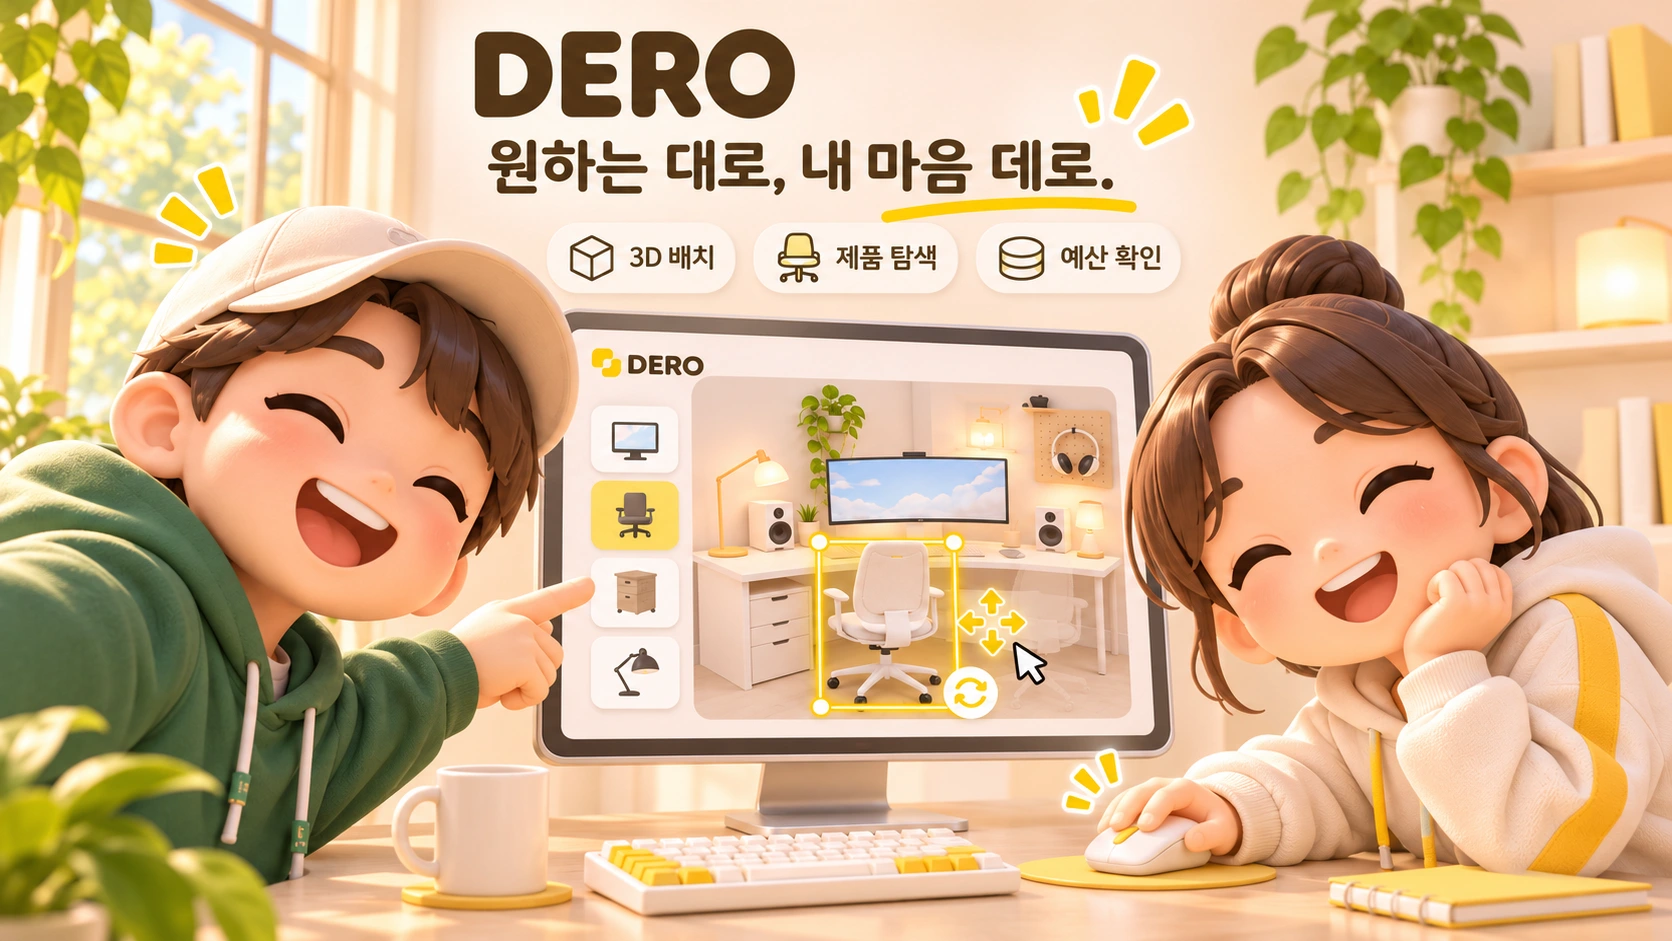
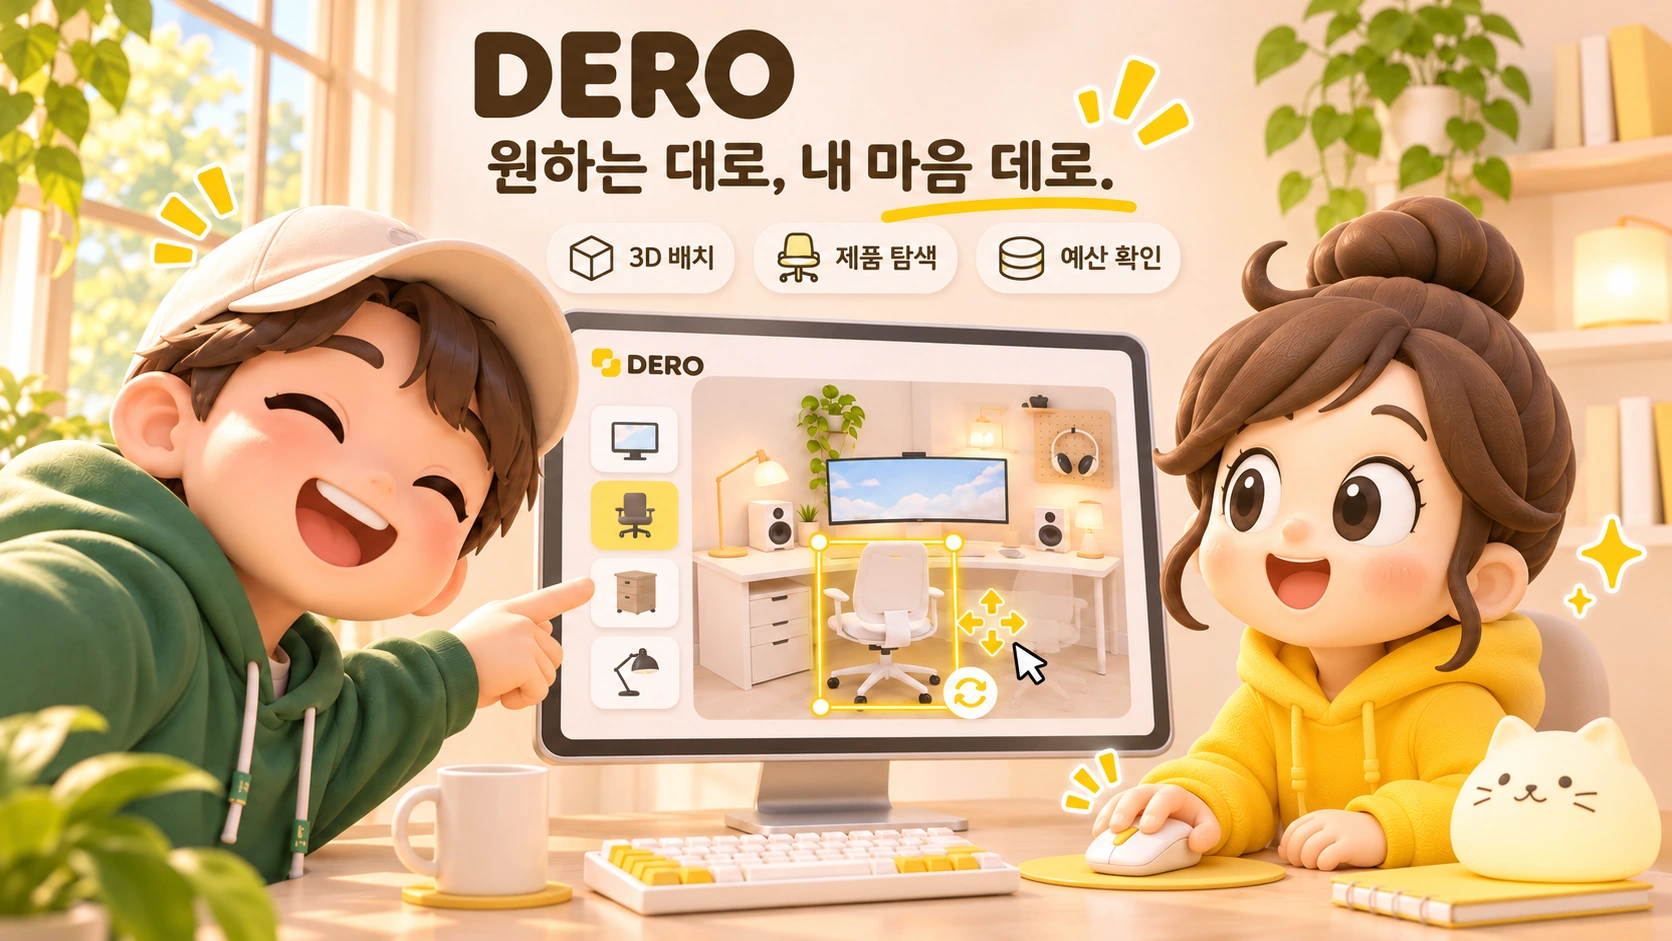
style(park): DERO 광고에 두 팀 캐릭터 함께 배치

diff --git a/frontend/src/features/advertisements/AdvertisementLink.tsx b/frontend/src/features/advertisements/AdvertisementLink.tsx
@@ -89,7 +89,7 @@ const advertisements = [
       '마음에 드는 제품을 고르고 전체 예산도 확인할 수 있어요.',
     ],
     image: deroPreview,
-    alt: '두 온탑 캐릭터가 DERO의 3D 화면에서 책상과 의자를 배치하는 모습. 3D 배치, 제품 탐색, 예산 확인 안내.',
+    alt: '노란 후드의 DERO 캐릭터와 초록 후드의 온탑 캐릭터가 DERO의 3D 화면에서 책상을 꾸미는 모습. 3D 배치, 제품 탐색, 예산 확인 안내.',
     artworkMat: 'gold',
     detailPoster: deroPoster,
     link: 'https://www.dero.life/',
